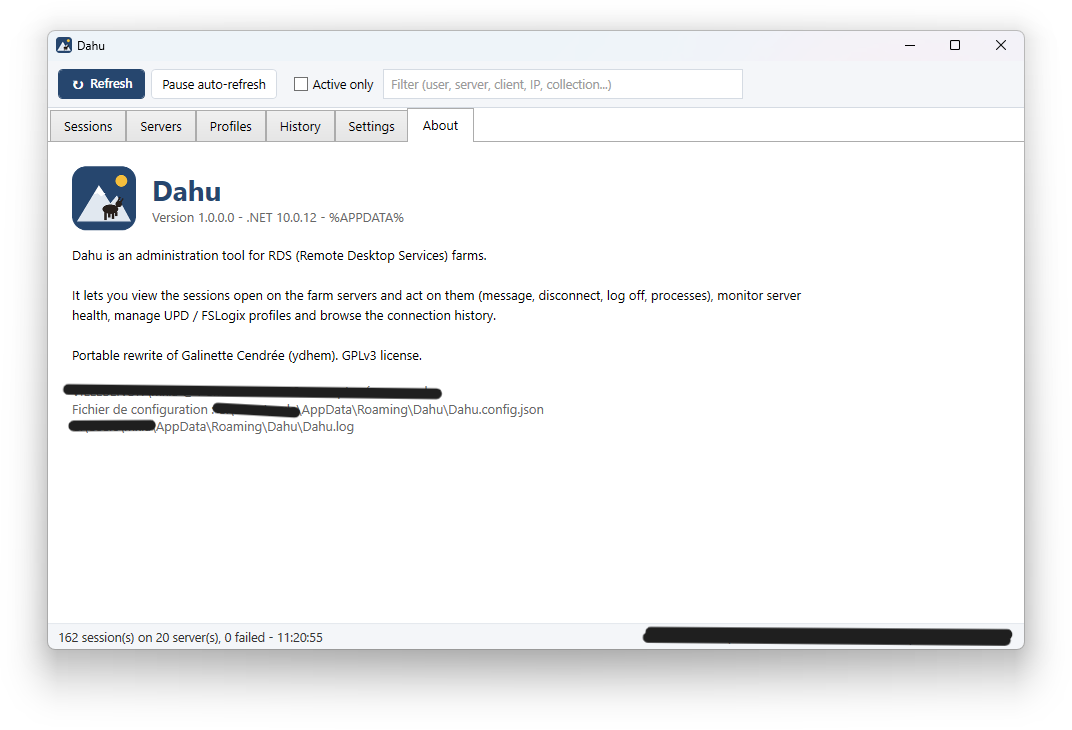
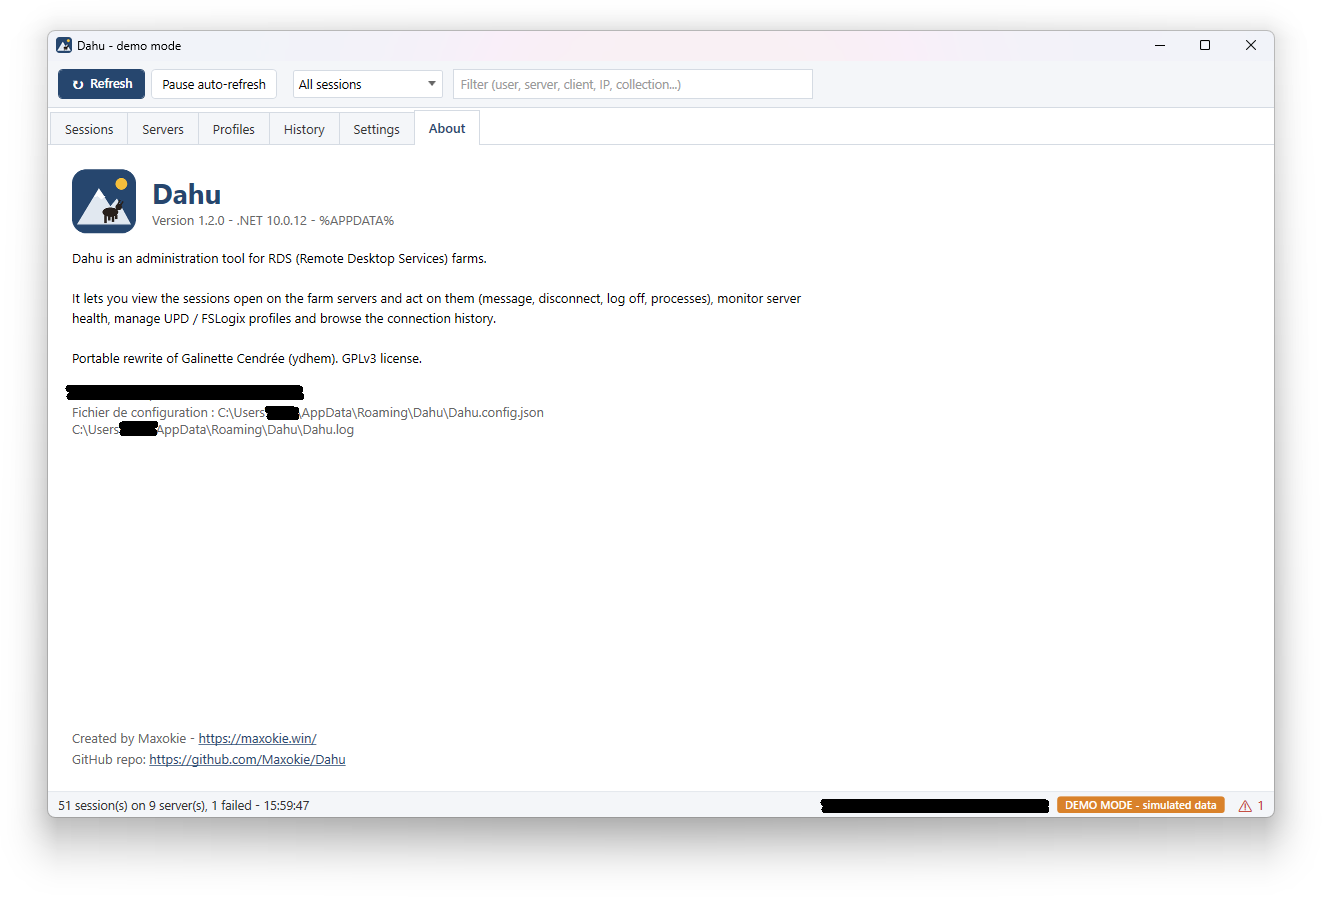
README update

Changed region(s): [[0.0308, 0.0301, 0.9851, 0.9342], [0.8619, 0.0301, 0.9543, 0.0603]]

diff --git a/README.md b/README.md
@@ -5,7 +5,12 @@ A lightweight alternative to tools like TSAdmin or Galinette Cendrée: view the 
 
 Single `Dahu.exe` file, no installation, no runtime to deploy.
 
-![About tab](img/about.png)
+<p align="center">
+  <a href="img/sessions.png"><img src="img/sessions.png" width="80%" alt="Sessions view"></a>
+  <br>
+  <a href="img/servers.png"><img src="img/servers.png" width="39%" alt="Servers view"></a>
+  <a href="img/about.png"><img src="img/about.png" width="39%" alt="About tab"></a>
+</p>
 
 ## Features
 
@@ -18,6 +23,13 @@ Single `Dahu.exe` file, no installation, no runtime to deploy.
 - **Settings**: brokers, hosts, profile shares, timeouts, language, theme, columns, alternate account.
 
 Interface available in English and French.
+
+## Requirements
+
+- Windows 10 / 11 or Windows Server 2016 and later, 64-bit. The .NET runtime is embedded: nothing to install.
+- An account that is a local administrator on the session hosts (and on the Connection Broker, if used). Out-of-domain workstations can use the alternate account option in Settings.
+- Network access from the workstation to each server: TCP 445 (sessions, shadow, C$) and TCP 135 plus RPC dynamic ports (WMI, event log, broker queries).
+- Profiles tab only: read access to the UPD / FSLogix shares.
 
 ## Build
 
